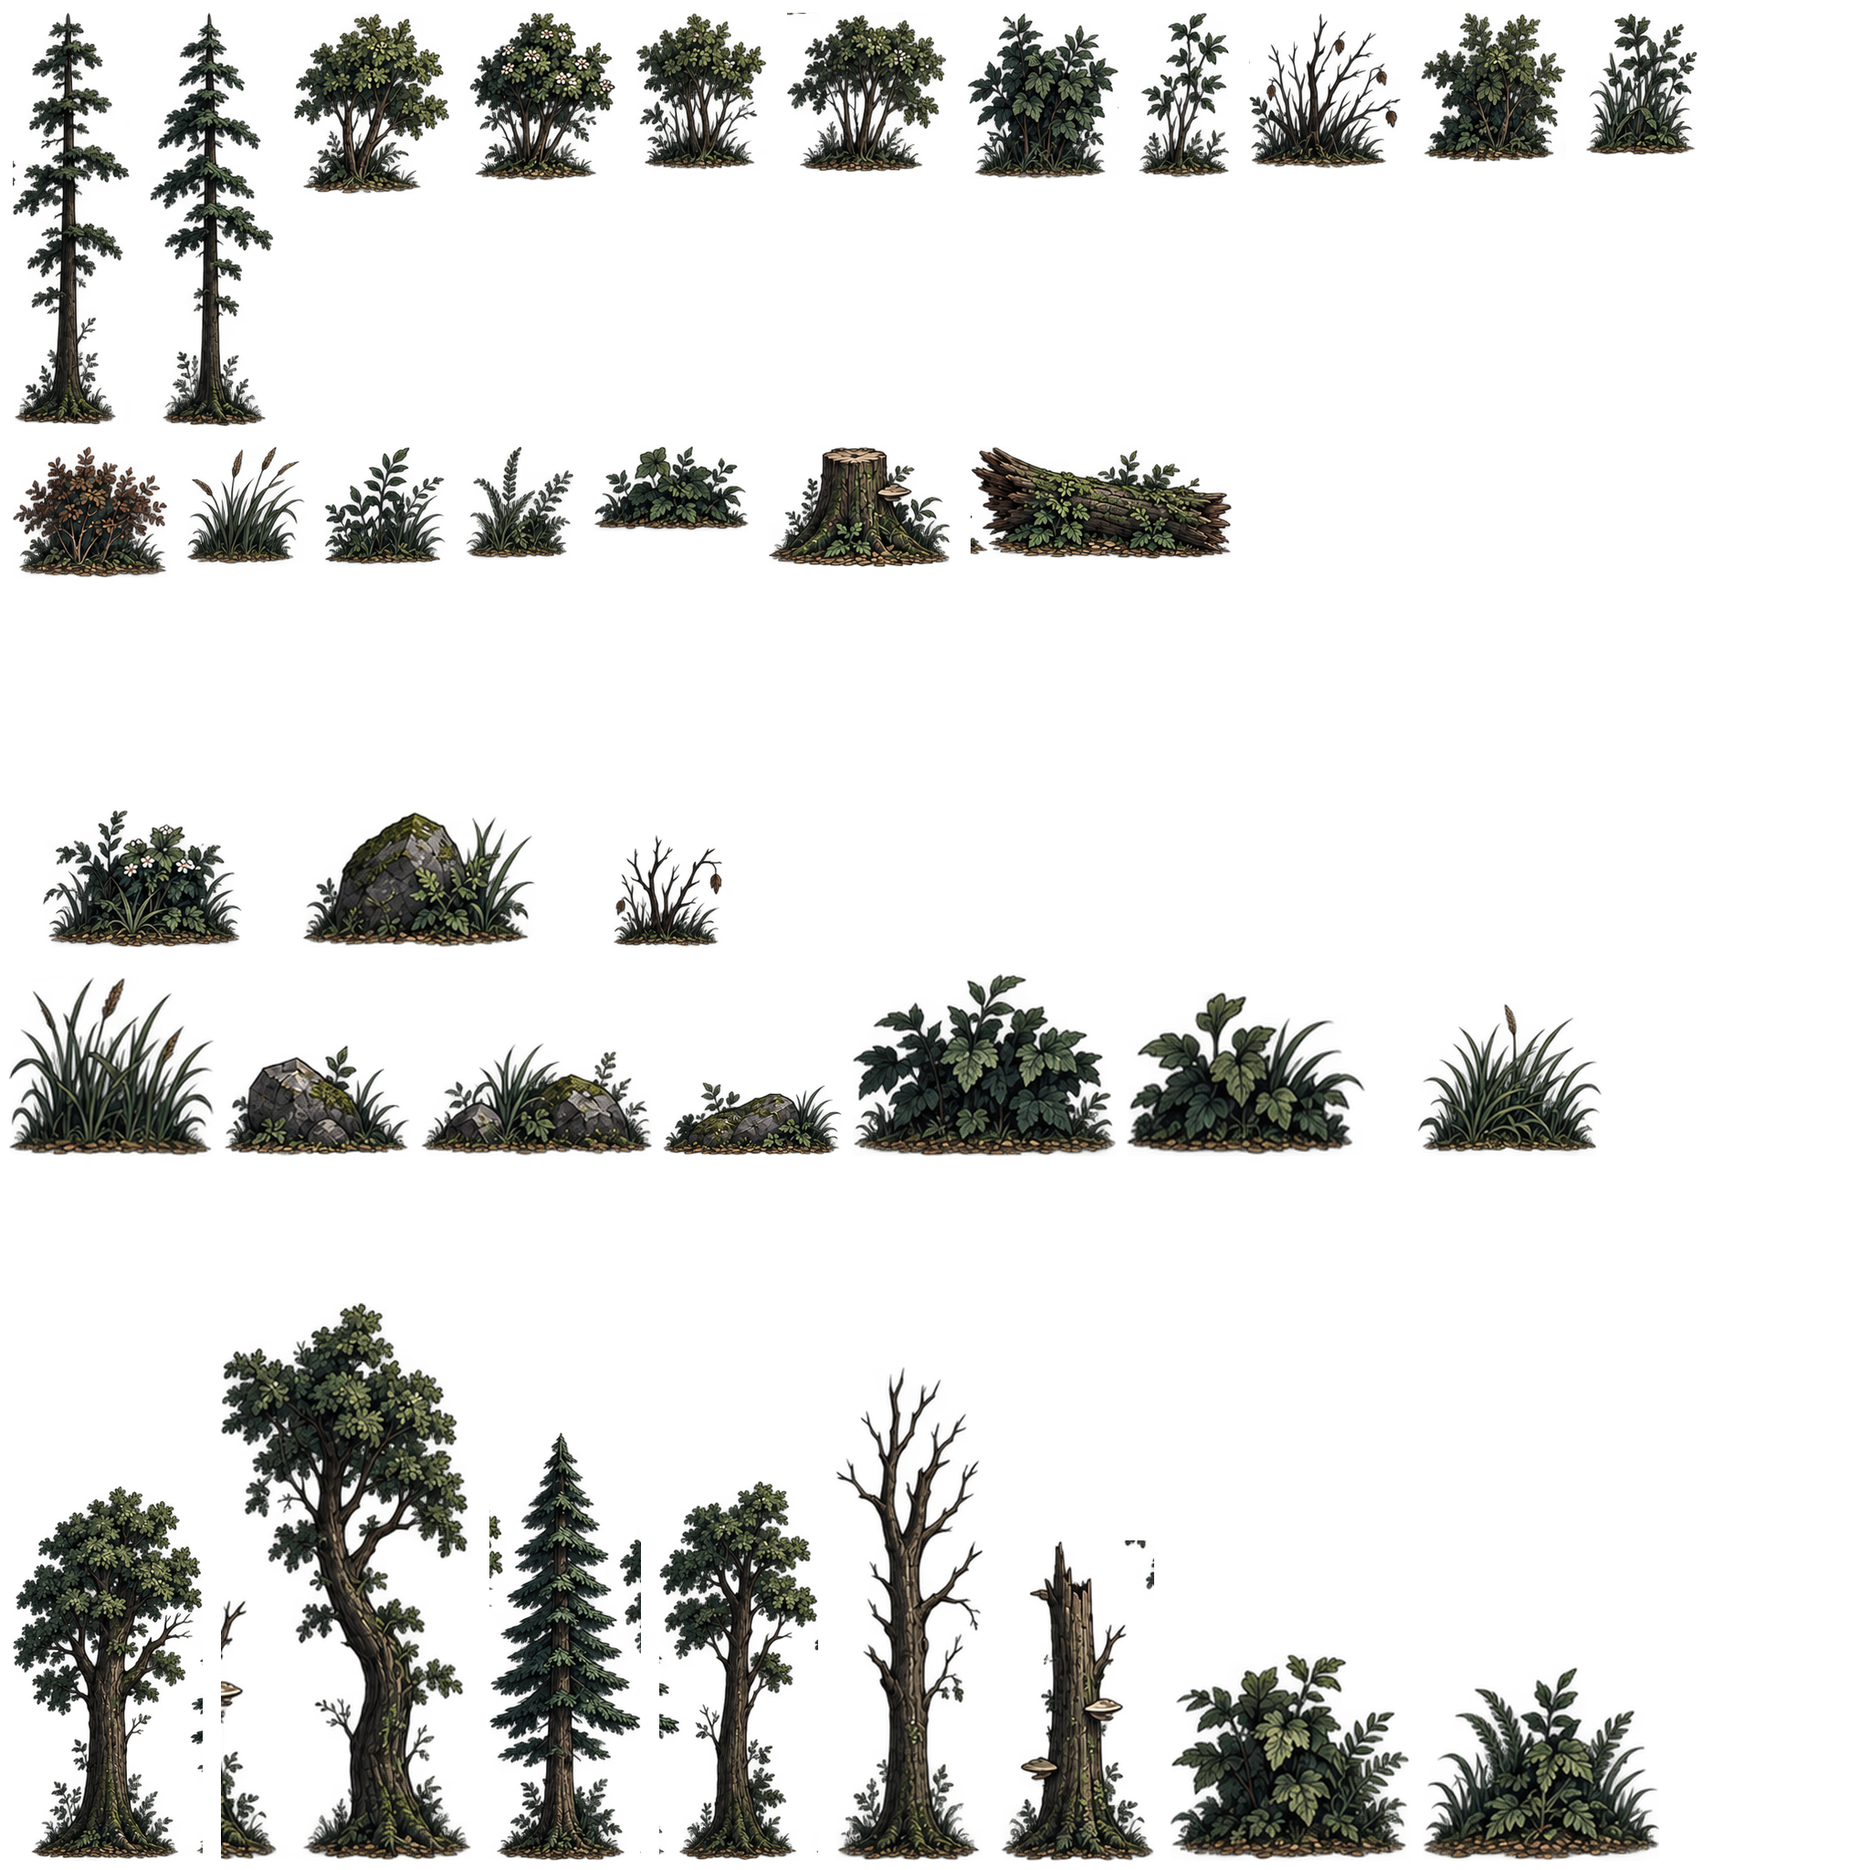
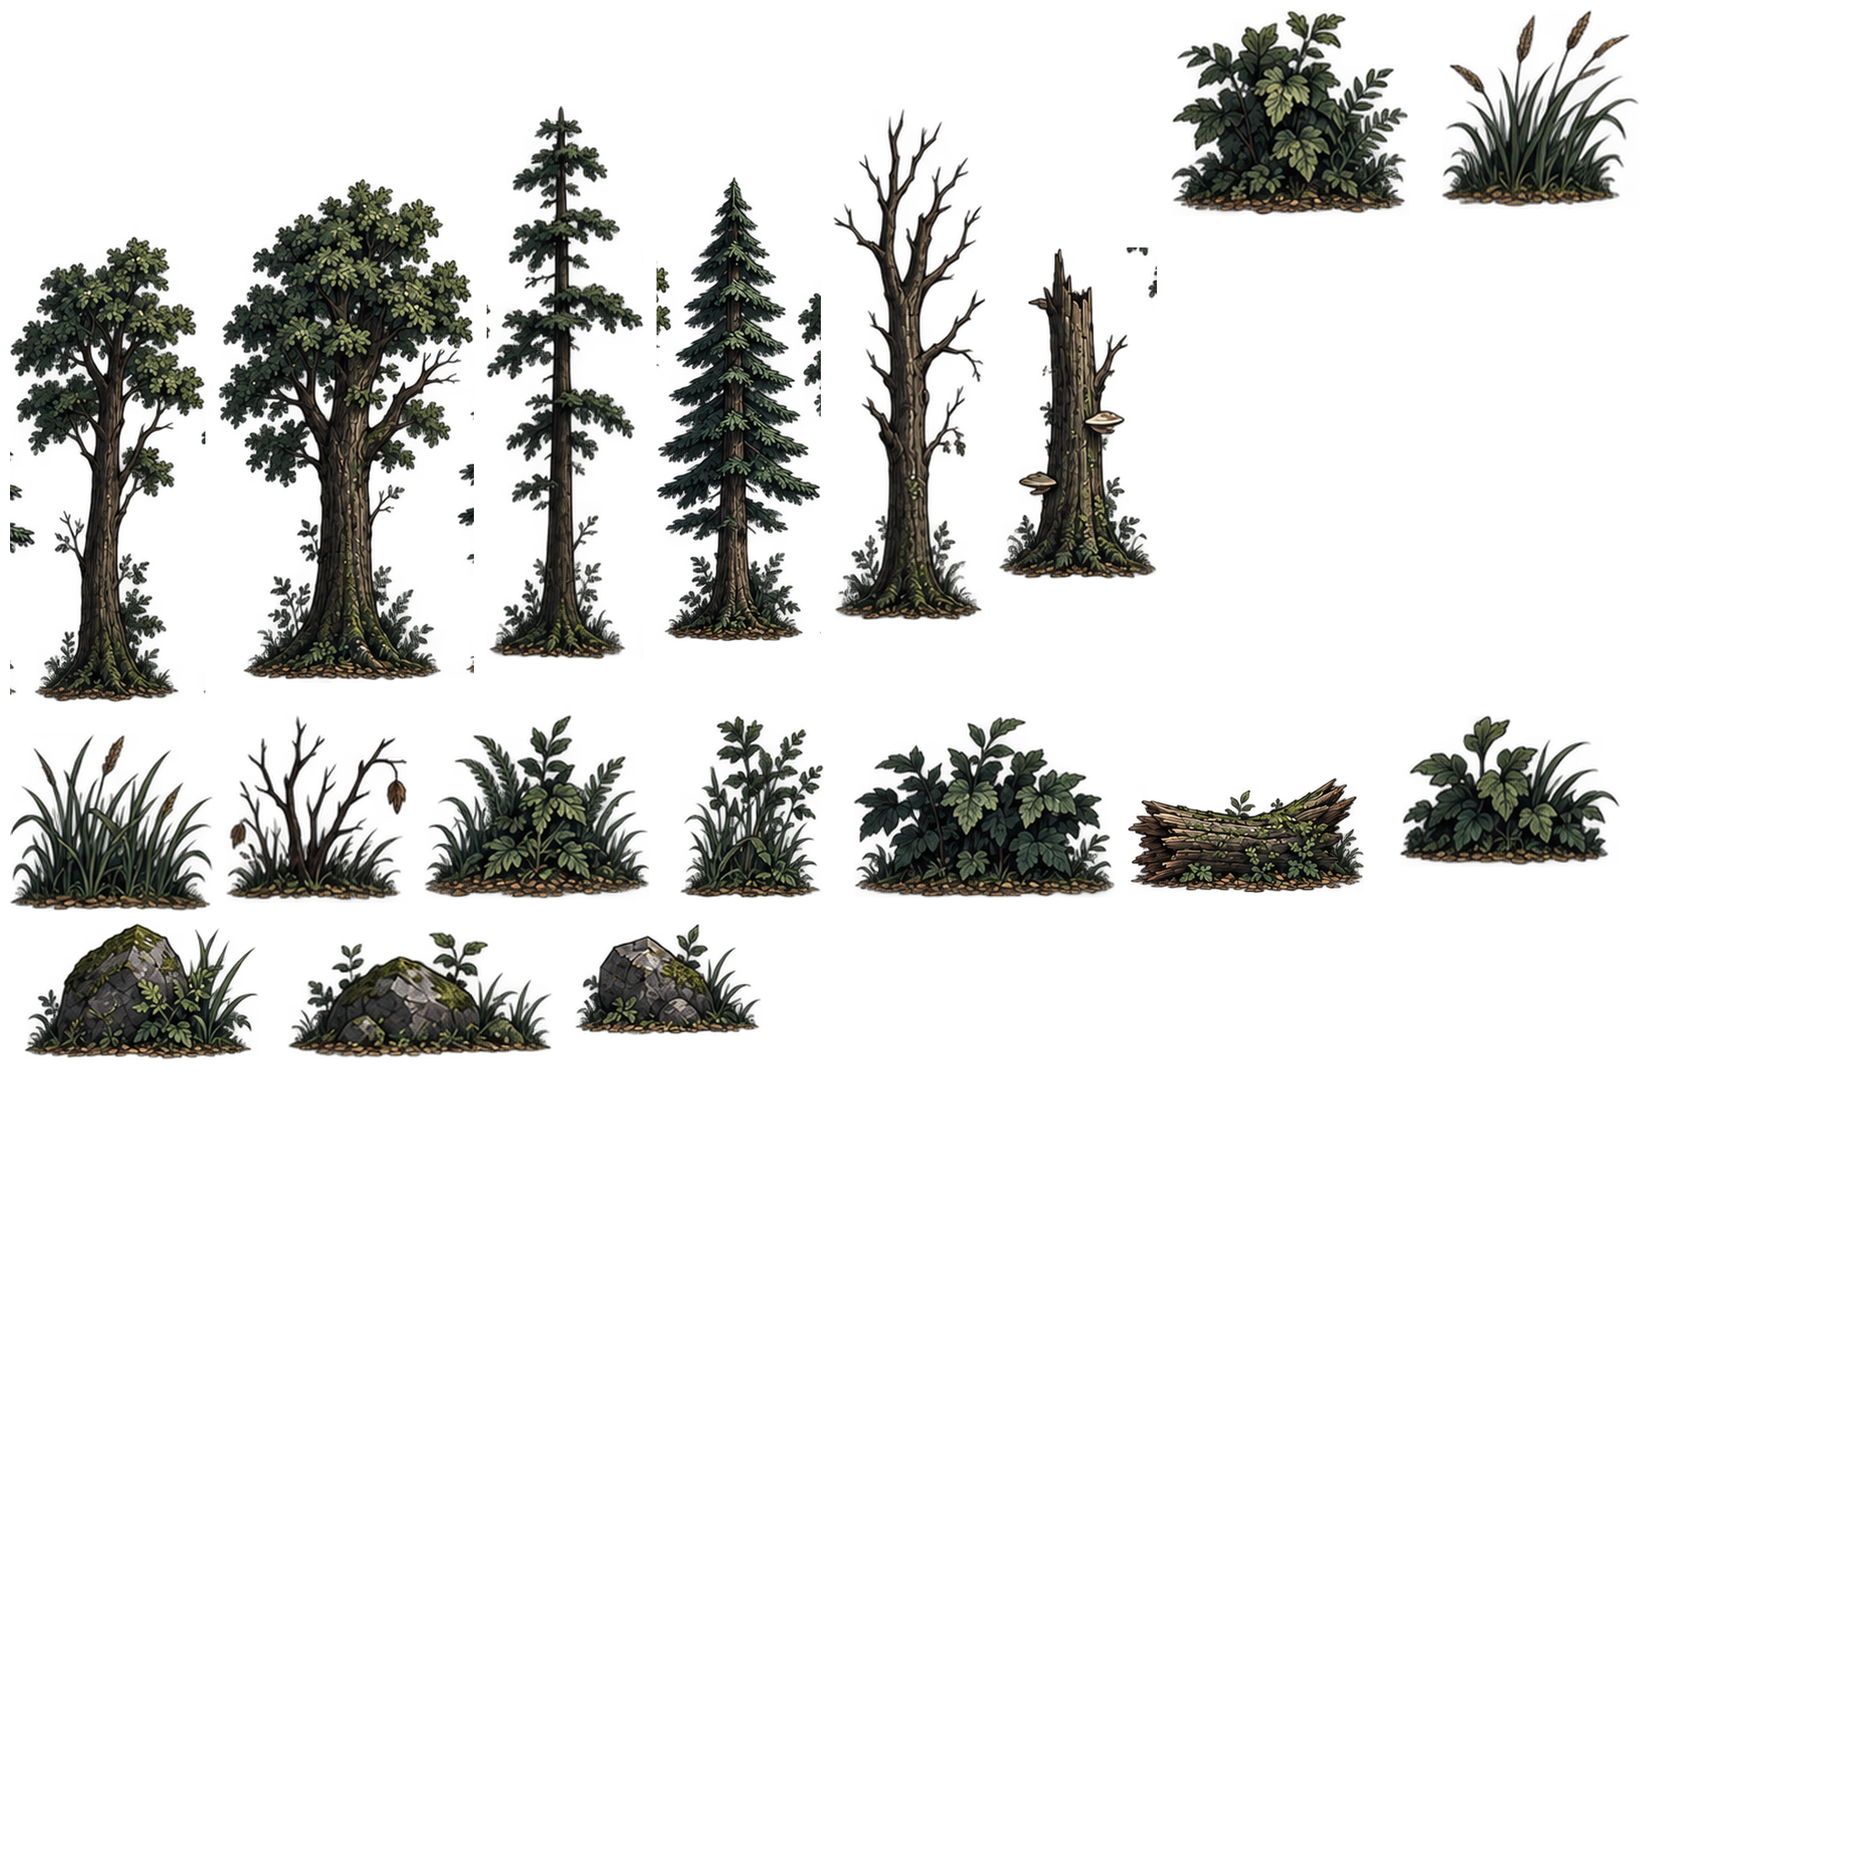
Add files via upload

diff --git a/sidescroll.js b/sidescroll.js
@@ -1,7 +1,7 @@
 (() => {
   'use strict';
 
-  // SideScroll v0.2.49: refreshed woodland atlas in the original tighter style, with lighter mid-height layering.
+  // SideScroll v0.2.50: strict like-for-like woodland atlas style refresh; original procedural layout retained.
 
   const queryParams = new URLSearchParams(window.location.search);
   const PLAYER_MODE = queryParams.get('mode') === 'player';
@@ -723,7 +723,7 @@
     return tex;
   }
 
-  textures.pathDirt = createRepeatingImageTexture('terrain-dirt.png?v=0.2.49', 'terrain dirt texture', {
+  textures.pathDirt = createRepeatingImageTexture('terrain-dirt.png?v=0.2.50', 'terrain dirt texture', {
     placeholderDraw: drawFallbackTerrainTexture,
     potSize: 1024
   });
@@ -731,7 +731,7 @@
   // v1.8.81: forest dressing now comes from one authored atlas.
   // This removes the old per-file fallback path which could substitute the
   // full woodland source sheet when an individual PNG failed to load.
-  textures.dressingAtlas = createImageTexture('sidescroll-dressing-atlas.png?v=0.2.49', 'SideScroll dressing atlas');
+  textures.dressingAtlas = createImageTexture('sidescroll-dressing-atlas.png?v=0.2.50', 'SideScroll dressing atlas');
   const assetUv = {
     tree06: { scale: [0.107421875, 0.373046875], offset: [0.003906250, 0.623046875] },
     tree02: { scale: [0.139648438, 0.362304688], offset: [0.115234375, 0.633789062] },
@@ -751,62 +751,26 @@
     ground08: { scale: [0.144531250, 0.075683594], offset: [0.003906250, 0.432128906] },
     ground03: { scale: [0.144531250, 0.074707031], offset: [0.152343750, 0.433105469] },
     ground10: { scale: [0.113281250, 0.062500000], offset: [0.300781250, 0.445312500] },
-    tree07: { scale: [0.068359375, 0.226074219], offset: [0.003906250, 0.770019531] },
-    tree08: { scale: [0.072265625, 0.227050781], offset: [0.077148438, 0.769042969] },
-    midtree01: { scale: [0.088867188, 0.103027344], offset: [0.154296875, 0.893066406] },
-    midtree02: { scale: [0.083984375, 0.095703125], offset: [0.248046875, 0.900390625] },
-    midtree03: { scale: [0.076171875, 0.089843750], offset: [0.336914062, 0.906250000] },
-    midtree04: { scale: [0.091308594, 0.091308594], offset: [0.417968750, 0.904785156] },
-    ground13: { scale: [0.086914062, 0.094726562], offset: [0.514160156, 0.901367188] },
-    ground14: { scale: [0.054199219, 0.094726562], offset: [0.605957031, 0.901367188] },
-    ground15: { scale: [0.086914062, 0.089355469], offset: [0.665039062, 0.906738281] },
-    ground16: { scale: [0.083496094, 0.085449219], offset: [0.756835938, 0.910644531] },
-    ground17: { scale: [0.065429688, 0.082031250], offset: [0.845214844, 0.914062500] },
-    ground18: { scale: [0.088378906, 0.076171875], offset: [0.003906250, 0.687988281] },
-    ground19: { scale: [0.068847656, 0.069335938], offset: [0.097167969, 0.694824219] },
-    ground20: { scale: [0.070312500, 0.069335938], offset: [0.170898438, 0.694824219] },
-    ground21: { scale: [0.063476562, 0.066406250], offset: [0.246093750, 0.697753906] },
-    ground22: { scale: [0.088867188, 0.051269531], offset: [0.314453125, 0.712890625] },
-    ground23: { scale: [0.103027344, 0.070312500], offset: [0.408203125, 0.693847656] },
-    ground24: { scale: [0.145507812, 0.065917969], offset: [0.516113281, 0.698242188] },
   };
   const assetDimensions = {
-    tree06: [220, 764],
-    tree02: [286, 742],
-    tree01: [178, 716],
-    tree04: [186, 697],
-    tree03: [172, 674],
-    tree05: [180, 628],
-    ground02: [270, 231],
-    ground01: [263, 223],
-    ground06: [228, 220],
-    ground04: [207, 211],
-    ground11: [257, 207],
-    ground07: [200, 206],
-    ground05: [292, 205],
-    ground09: [265, 200],
-    ground12: [298, 171],
-    ground08: [296, 155],
-    ground03: [296, 153],
-    ground10: [232, 128],
-    tree07: [140, 463],
-    tree08: [148, 465],
-    midtree01: [182, 211],
-    midtree02: [172, 196],
-    midtree03: [156, 184],
-    midtree04: [187, 187],
-    ground13: [178, 194],
-    ground14: [111, 194],
-    ground15: [178, 183],
-    ground16: [171, 175],
-    ground17: [134, 168],
-    ground18: [181, 156],
-    ground19: [141, 142],
-    ground20: [144, 142],
-    ground21: [130, 136],
-    ground22: [182, 105],
-    ground23: [211, 144],
-    ground24: [298, 135],
+    tree01: [237, 955],
+    tree02: [382, 990],
+    tree03: [230, 899],
+    tree04: [248, 929],
+    tree05: [240, 837],
+    tree06: [293, 1018],
+    ground01: [351, 297],
+    ground02: [360, 308],
+    ground03: [394, 204],
+    ground04: [276, 281],
+    ground05: [389, 273],
+    ground06: [304, 294],
+    ground07: [267, 275],
+    ground08: [394, 207],
+    ground09: [353, 267],
+    ground10: [309, 171],
+    ground11: [343, 276],
+    ground12: [398, 228],
   };
   Object.entries(assetDimensions).forEach(([key, size]) => {
     assetAspect[key] = size[0] / size[1];
@@ -1367,10 +1331,9 @@
   }
 
   function scatterForest() {
-    const trees = ['tree01', 'tree02', 'tree03', 'tree04', 'tree05', 'tree06', 'tree07', 'tree08'];
-    const midTrees = ['midtree01', 'midtree02', 'midtree03'];
-    const allGround = ['ground01','ground02','ground03','ground04','ground05','ground06','ground07','ground08','ground09','ground10','ground11','ground12','ground13','ground14','ground15','ground16','ground17','ground18'];
-    const grassScrub = ['ground01','ground02','ground05','ground06','ground08','ground09','ground12','ground13','ground14','ground15','ground16','ground17','ground18'];
+    const trees = ['tree01', 'tree02', 'tree03', 'tree04', 'tree05', 'tree06'];
+    const allGround = ['ground01','ground02','ground03','ground04','ground05','ground06','ground07','ground08','ground09','ground10','ground11','ground12'];
+    const grassScrub = ['ground01','ground02','ground03','ground05','ground06','ground08','ground09','ground10','ground11','ground12'];
     const rocks = ['ground03','ground04','ground07','ground10','ground11'];
     const edgeGrass = ['ground01','ground06','ground10','ground11'];
 
@@ -1458,22 +1421,6 @@
       addObject(backdrop, type, x, z, null, height, {
         shade: 0.97 + rand() * 0.10,
         opacity: 0.92 + rand() * 0.08,
-        layer: classifyLayer(z)
-      });
-    }
-
-    // A restrained mid-height layer bridges from ground dressing to the full
-    // canopy without forming a continuous wall. Keep it sparser and a little
-    // deeper into the scene so the fog and taller trunks still read clearly.
-    for (let i = 0; i < 42; i++) {
-      const x = TILE.minX + rand() * TILE_WIDTH;
-      const depth = Math.pow(rand(), 1.35);
-      const z = FAR_SIDE_START - 1.1 - depth * 12.0;
-      const type = midTrees[Math.floor(rand() * midTrees.length)];
-      const height = 2.2 + rand() * (2.6 - depth * 0.35);
-      addObject(midfill, type, x, z, null, height, {
-        shade: 0.98 + rand() * 0.06,
-        opacity: 0.84 + rand() * 0.07,
         layer: classifyLayer(z)
       });
     }
@@ -1566,20 +1513,6 @@
       addObject(frontOccluders, type, x, z, null, height, {
         shade: 0.98 + rand() * 0.06,
         opacity: 0.96,
-        layer: 'foreground'
-      });
-    }
-
-    // Just a few near-side mid-height accents help parallax without making
-    // the whole foreground feel like a soft leafy curtain.
-    for (let i = 0; i < 10; i++) {
-      const x = TILE.minX + rand() * TILE_WIDTH;
-      const z = NEAR_SIDE_START + 3.2 + rand() * 3.1;
-      const type = midTrees[Math.floor(rand() * midTrees.length)];
-      const height = 1.5 + rand() * 1.35;
-      addObject(frontOccluders, type, x, z, null, height, {
-        shade: 0.95 + rand() * 0.07,
-        opacity: 0.90 + rand() * 0.04,
         layer: 'foreground'
       });
     }
@@ -2881,15 +2814,11 @@
       { name:'stone-piece-c', label:'STONE PIECE C', image:'stone-piece-c.png', category:'gameplay', gameplayType:'prop', thumb:'⬡', defaultHeight:0.74 }
     ]},
     { scope:'environment', title: 'DRESSING · TREES', items: [
-      'tree01','tree02','tree03','tree04','tree05','tree06','tree07','tree08'
+      'tree01','tree02','tree03','tree04','tree05','tree06'
     ].map(name => ({ name, label: `TREE ${Number(name.slice(-2))}`, category: 'dressing' }))},
-    { scope:'environment', title: 'DRESSING · MID TREES', items: [
-      'midtree01','midtree02','midtree03','midtree04'
-    ].map(name => ({ name, label: `MID TREE ${Number(name.slice(-2))}`, category: 'dressing' }))},
     { scope:'environment', title: 'DRESSING · GROUND', items: [
-      'ground01','ground02','ground03','ground04','ground05','ground06','ground07','ground08',
-      'ground09','ground10','ground11','ground12','ground13','ground14','ground15','ground16',
-      'ground17','ground18','ground19','ground20','ground21','ground22','ground23','ground24'
+      'ground01','ground02','ground03','ground04','ground05','ground06',
+      'ground07','ground08','ground09','ground10','ground11','ground12'
     ].map(name => ({ name, label: `GROUND ${Number(name.slice(-2))}`, category: 'dressing' }))}
   ];
   const editorAssetInfo = new Map(editorAssetGroups.flatMap(group => group.items.map(item => [item.name, item])));
@@ -3797,7 +3726,7 @@
     return {
       format:'SideScrollPuzzle',
       formatVersion:1,
-      appVersion:'0.2.49',
+      appVersion:'0.2.50',
       exportedAt:new Date().toISOString(),
       marker:{ id:marker.id, group:marker.group, x:marker.x, local:markerIsUserCreated(marker) },
       definition:deepCopy(def),
@@ -3816,7 +3745,7 @@
       const def = groupDefinition(groupId);
       if (!groupId || !def) return;
       payload = {
-        format:'SideScrollPuzzleTemplate', formatVersion:1, appVersion:'0.2.49', exportedAt:new Date().toISOString(),
+        format:'SideScrollPuzzleTemplate', formatVersion:1, appVersion:'0.2.50', exportedAt:new Date().toISOString(),
         group:groupId, definition:deepCopy(def), savedStart:deepCopy(templateStartForGroup(groupId)),
         source:groupIsUserCreated(groupId) ? 'local-library' : 'library'
       };
@@ -3906,7 +3835,7 @@
     return {
       format:'SideScrollGameDesign',
       formatVersion:1,
-      appVersion:'0.2.49',
+      appVersion:'0.2.50',
       exportedAt:new Date().toISOString(),
       purpose:'Complete authoring handoff: scene placement, puzzle placement/setup, reusable asset settings, collectables and camera tuning.',
       world:{

diff --git a/play.html b/play.html
@@ -9,7 +9,7 @@
   <meta name="theme-color" content="#081015">
   <link rel="manifest" href="manifest.json">
   <link rel="apple-touch-icon" href="icon-192.png">
-  <link rel="stylesheet" href="style.css?v=0.2.49">
+  <link rel="stylesheet" href="style.css?v=0.2.50">
   <title>SideScroll</title>
 </head>
 <body class="modular-game ss-standalone-game" data-game-id="game-16">
@@ -279,11 +279,11 @@
     </section>
   </main>
 
-  <script src="site-config.js?v=0.2.49"></script>
-  <script src="core.js?v=0.2.49"></script>
-  <script src="walk-rig.js?v=0.2.49"></script>
-  <script src="puzzle-groups.js?v=0.2.49"></script>
-  <script src="baked-game-design.js?v=0.2.49"></script>
-  <script src="sidescroll.js?v=0.2.49"></script>
+  <script src="site-config.js?v=0.2.50"></script>
+  <script src="core.js?v=0.2.50"></script>
+  <script src="walk-rig.js?v=0.2.50"></script>
+  <script src="puzzle-groups.js?v=0.2.50"></script>
+  <script src="baked-game-design.js?v=0.2.50"></script>
+  <script src="sidescroll.js?v=0.2.50"></script>
 </body>
 </html>

diff --git a/walk-lab.html b/walk-lab.html
@@ -9,7 +9,7 @@
   <meta name="theme-color" content="#e7dbd2">
   <link rel="manifest" href="manifest.json">
   <link rel="apple-touch-icon" href="icon-192.png">
-  <link rel="stylesheet" href="style.css?v=0.2.49">
+  <link rel="stylesheet" href="style.css?v=0.2.50">
   <title>Walk Lab · SideScroll</title>
 </head>
 <body class="modular-game ss-standalone-game" data-game-id="game-17">
@@ -78,9 +78,9 @@
     </section>
   </main>
 
-  <script src="site-config.js?v=0.2.49"></script>
-  <script src="core.js?v=0.2.49"></script>
-  <script src="walk-rig.js?v=0.2.49"></script>
-  <script src="walk-lab.js?v=0.2.49"></script>
+  <script src="site-config.js?v=0.2.50"></script>
+  <script src="core.js?v=0.2.50"></script>
+  <script src="walk-rig.js?v=0.2.50"></script>
+  <script src="walk-lab.js?v=0.2.50"></script>
 </body>
 </html>

diff --git a/index.html b/index.html
@@ -9,7 +9,7 @@
   <meta name="theme-color" content="#172026">
   <link rel="manifest" href="manifest.json">
   <link rel="apple-touch-icon" href="icon-192.png">
-  <link rel="stylesheet" href="style.css?v=0.2.49">
+  <link rel="stylesheet" href="style.css?v=0.2.50">
   <title>SideScroll</title>
 </head>
 <body class="modular-home ss-home">
@@ -52,8 +52,8 @@
     </section>
   </div>
 
-  <script src="site-config.js?v=0.2.49"></script>
-  <script src="core.js?v=0.2.49"></script>
-  <script src="home.js?v=0.2.49"></script>
+  <script src="site-config.js?v=0.2.50"></script>
+  <script src="core.js?v=0.2.50"></script>
+  <script src="home.js?v=0.2.50"></script>
 </body>
 </html>

diff --git a/sw.js b/sw.js
@@ -1,4 +1,4 @@
-const CACHE = "sidescroll-v0.2.49";
+const CACHE = "sidescroll-v0.2.50";
 const APP_SHELL = [
   "./",
   "./index.html",

diff --git a/README.md b/README.md
@@ -1,5 +1,6 @@
-# SideScroll v0.2.49
+# SideScroll v0.2.50
 
-- Fixed atlas UVs for the newly added tree/mid-tree/ground extras.
-- Existing original mapped slots remain unchanged.
-- Keeps the reduced mid-height procedural usage from v0.2.48.
+- Recovery build based directly on the last known-good v0.2.45 structure.
+- Strict like-for-like replacement of the existing six tree and twelve ground dressing atlas slots.
+- Existing UV mappings, asset names, procedural counts and scene layout are unchanged.
+- No new mid-height assets are added in this build.
